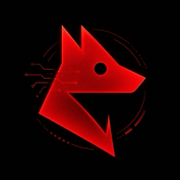
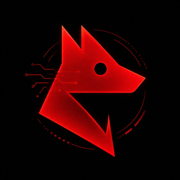
updated images for discovery

diff --git a/protocol/src/routes/assets.ts b/protocol/src/routes/assets.ts
@@ -28,9 +28,9 @@ function publicBaseUrl(): string {
 
 function buildRootHtml(): string {
   const base = publicBaseUrl();
-  const logoUrl = `${base}/logo.png`;
-  const bannerUrl = `${base}/banner.png`;
-  const faviconUrl = `${base}/favicon.png`;
+  const logoUrl = `${base}/logo.png?v=2`;
+  const bannerUrl = `${base}/banner.png?v=2`;
+  const faviconUrl = `${base}/favicon.png?v=2`;
 
   return `<!doctype html>
 <html lang="en">
@@ -42,7 +42,7 @@ function buildRootHtml(): string {
     <meta name="robots" content="index,follow" />
     <link rel="canonical" href="${base}/" />
     <link rel="icon" type="image/png" href="${faviconUrl}" />
-    <link rel="icon" href="${base}/favicon.ico" sizes="any" />
+    <link rel="icon" href="${base}/favicon.ico?v=2" sizes="any" />
     <link rel="apple-touch-icon" href="${logoUrl}" />
 
     <meta property="og:type" content="website" />
@@ -106,6 +106,11 @@ function buildRootHtml(): string {
 `;
 }
 
+function sendPng(reply: { header: (k: string, v: string) => unknown; type: (t: string) => { send: (b: Buffer) => unknown } }, body: Buffer) {
+  reply.header("Cache-Control", "public, max-age=86400, stale-while-revalidate=604800");
+  return reply.type("image/png").send(body);
+}
+
 export function registerAssetRoutes(app: FastifyInstance) {
   app.get(
     "/",
@@ -117,6 +122,7 @@ export function registerAssetRoutes(app: FastifyInstance) {
       }
     },
     async (_request, reply) => {
+      reply.header("Cache-Control", "public, max-age=60");
       return reply.type("text/html; charset=utf-8").send(buildRootHtml());
     }
   );
@@ -130,9 +136,7 @@ export function registerAssetRoutes(app: FastifyInstance) {
         }
       }
     },
-    async (_request, reply) => {
-      return reply.type("image/png").send(faviconPng);
-    }
+    async (_request, reply) => sendPng(reply, faviconPng)
   );
 
   app.get(
@@ -145,6 +149,7 @@ export function registerAssetRoutes(app: FastifyInstance) {
       }
     },
     async (_request, reply) => {
+      reply.header("Cache-Control", "public, max-age=86400, stale-while-revalidate=604800");
       return reply.type("image/x-icon").send(faviconIco);
     }
   );
@@ -158,9 +163,7 @@ export function registerAssetRoutes(app: FastifyInstance) {
         }
       }
     },
-    async (_request, reply) => {
-      return reply.type("image/png").send(logoPng);
-    }
+    async (_request, reply) => sendPng(reply, logoPng)
   );
 
   app.get(
@@ -172,8 +175,6 @@ export function registerAssetRoutes(app: FastifyInstance) {
         }
       }
     },
-    async (_request, reply) => {
-      return reply.type("image/png").send(bannerPng);
-    }
+    async (_request, reply) => sendPng(reply, bannerPng)
   );
 }

diff --git a/protocol/tests/integration/discovery-contract.test.ts b/protocol/tests/integration/discovery-contract.test.ts
@@ -108,8 +108,8 @@ test("well-known x402 manifest lists paid resources and indexing links", async (
   assert.equal(manifest.x402Version, 2);
   assert.equal(manifest.openapiUrl, "https://canix402-api.compx.io/openapi.json");
   assert.equal(manifest.discoveryUrl, "https://canix402-api.compx.io/discovery");
-  assert.equal(manifest.logoUrl, "https://canix402-api.compx.io/logo.png");
-  assert.equal(manifest.bannerUrl, "https://canix402-api.compx.io/banner.png");
+  assert.equal(manifest.logoUrl, "https://canix402-api.compx.io/logo.png?v=2");
+  assert.equal(manifest.bannerUrl, "https://canix402-api.compx.io/banner.png?v=2");
   assert.equal(manifest.docsUrl, "https://canix402.compx.io/x402");
   assert.equal(manifest.llmsTxtUrl, "https://canix402.compx.io/llms.txt");
   assert.equal((manifest as { mcpTransport?: string }).mcpTransport, MCP_SERVER_TRANSPORT);
@@ -264,9 +264,9 @@ test("gateway serves agent discovery metadata without payment", async () => {
   assert.equal(agentCard.statusCode, 200);
   assert.equal(legacyAgentCard.statusCode, 200);
   assert.equal(card.documentationUrl, "https://canix402.compx.io/llms.txt");
-  assert.equal(card.iconUrl, "https://canix402-api.compx.io/logo.png");
-  assert.equal(card.x402?.logoUrl, "https://canix402-api.compx.io/logo.png");
-  assert.equal(card.x402?.bannerUrl, "https://canix402-api.compx.io/banner.png");
+  assert.equal(card.iconUrl, "https://canix402-api.compx.io/logo.png?v=2");
+  assert.equal(card.x402?.logoUrl, "https://canix402-api.compx.io/logo.png?v=2");
+  assert.equal(card.x402?.bannerUrl, "https://canix402-api.compx.io/banner.png?v=2");
   assert.equal(card.provider.url, "https://canix402.compx.io");
   assert.equal(card.skills.length, endpointPolicyMatrix.filter((endpoint) => endpoint.access === "paid").length);
 

diff --git a/protocol/src/routes/discovery.ts b/protocol/src/routes/discovery.ts
@@ -377,8 +377,8 @@ function buildX402Manifest(): X402DiscoveryManifest {
     llmsTxtUrl,
     openapiUrl: `${publicBaseUrl}/openapi.json`,
     discoveryUrl: `${publicBaseUrl}/discovery`,
-    logoUrl: `${publicBaseUrl}/logo.png`,
-    bannerUrl: `${publicBaseUrl}/banner.png`,
+    logoUrl: `${publicBaseUrl}/logo.png?v=2`,
+    bannerUrl: `${publicBaseUrl}/banner.png?v=2`,
     mcpInstall: MCP_SERVER_INSTALL_URL,
     mcpUrl,
     mcpTransport: MCP_SERVER_TRANSPORT,
@@ -511,7 +511,7 @@ function buildAgentCard() {
     preferredTransport: "HTTP+JSON",
     version: getApiVersion(),
     documentationUrl: `${docsSiteUrl}/llms.txt`,
-    iconUrl: `${publicBaseUrl}/logo.png`,
+    iconUrl: `${publicBaseUrl}/logo.png?v=2`,
     provider: {
       organization: "Neon Forge Ltd",
       url: docsSiteUrl,
@@ -546,8 +546,8 @@ function buildAgentCard() {
       manifest: `${publicBaseUrl}/.well-known/x402.json`,
       openapi: `${publicBaseUrl}/openapi.json`,
       llmsTxt: `${docsSiteUrl}/llms.txt`,
-      logoUrl: `${publicBaseUrl}/logo.png`,
-      bannerUrl: `${publicBaseUrl}/banner.png`,
+      logoUrl: `${publicBaseUrl}/logo.png?v=2`,
+      bannerUrl: `${publicBaseUrl}/banner.png?v=2`,
       note:
         "Make a normal HTTP request. An unpaid paid-route request returns HTTP 402 with payment requirements; sign client-side and retry with PAYMENT-SIGNATURE."
     }

diff --git a/protocol/tests/helpers/x402LiveClient.ts b/protocol/tests/helpers/x402LiveClient.ts
@@ -208,10 +208,10 @@ export async function assertFreeEndpoint(
     if (body.discoveryUrl !== `${baseUrl}/discovery`) {
       throw new Error(`${path}: discoveryUrl mismatch`);
     }
-    if (body.logoUrl !== `${baseUrl}/logo.png`) {
+    if (body.logoUrl !== `${baseUrl}/logo.png?v=2`) {
       throw new Error(`${path}: logoUrl mismatch`);
     }
-    if (body.bannerUrl !== `${baseUrl}/banner.png`) {
+    if (body.bannerUrl !== `${baseUrl}/banner.png?v=2`) {
       throw new Error(`${path}: bannerUrl mismatch`);
     }
     return;

diff --git a/website/README.md b/website/README.md
@@ -109,7 +109,8 @@ After deploy:
 
 ## Brand assets
 
-- `public/brand/canix402-banner.png`
-- `public/brand/canix402-mark.png`
+- `public/brand/canix402-banner-v2.png` (1200×630 OG/social banner)
+- `public/brand/canix402-mark-v2.png` (square logo)
+- Legacy aliases: `canix402-banner.png`, `canix402-mark.png` (same bytes)
 
 The site uses a dark charcoal / red DeFi-native visual system with Inter Tight as the primary UI font and JetBrains Mono reserved for code, paths, and transaction identifiers.
